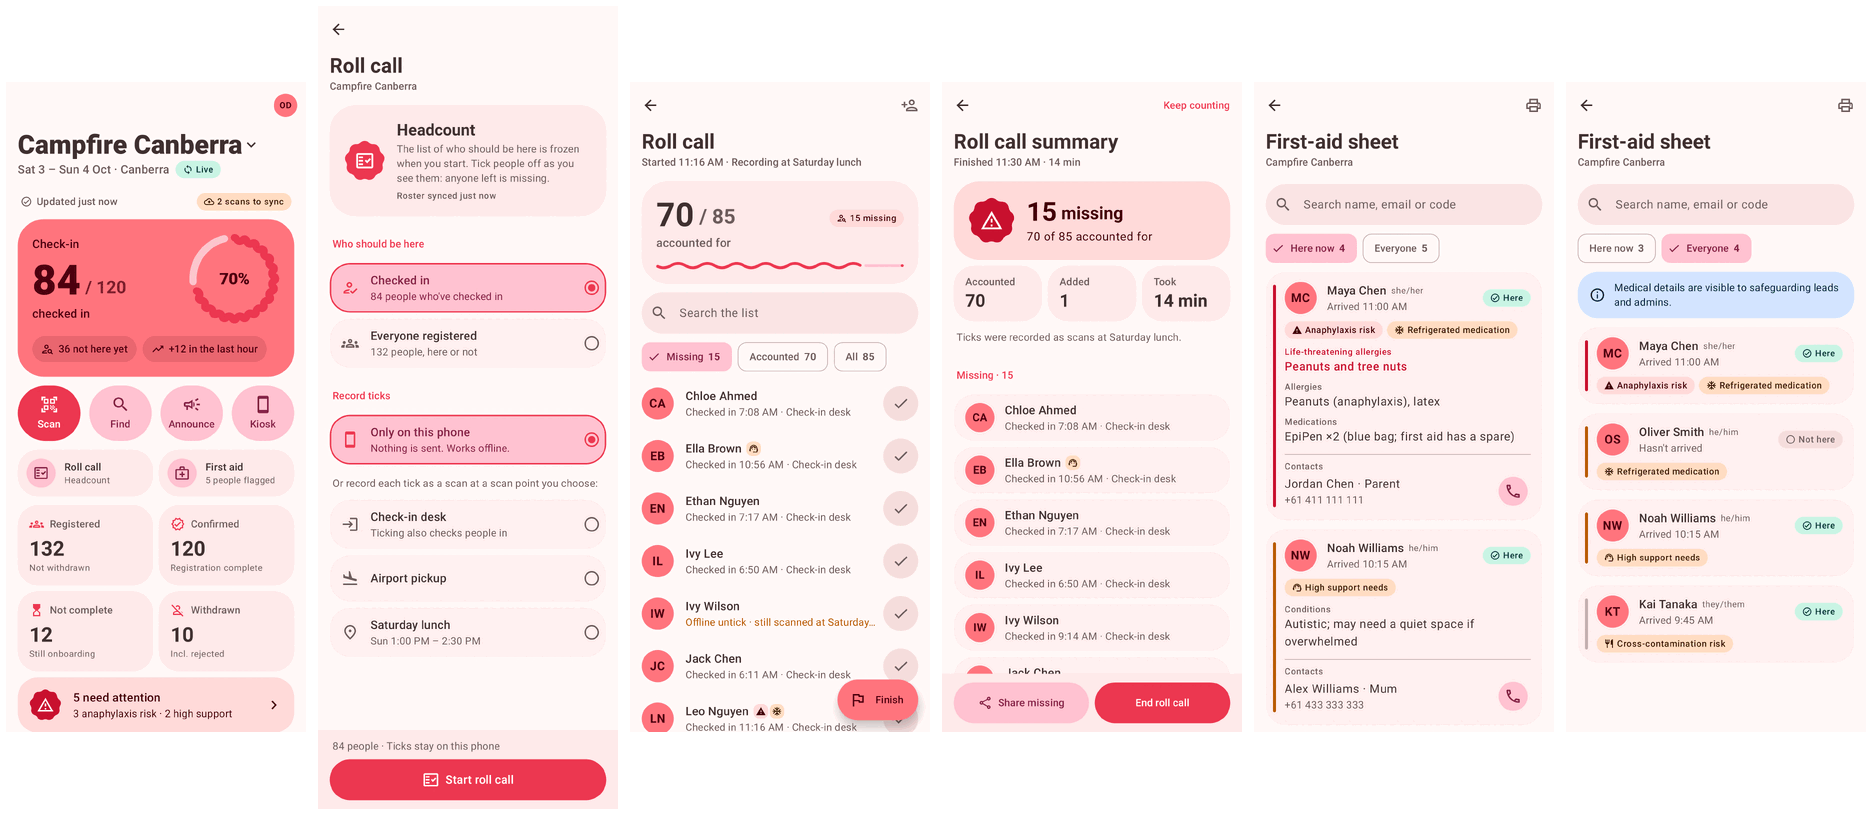
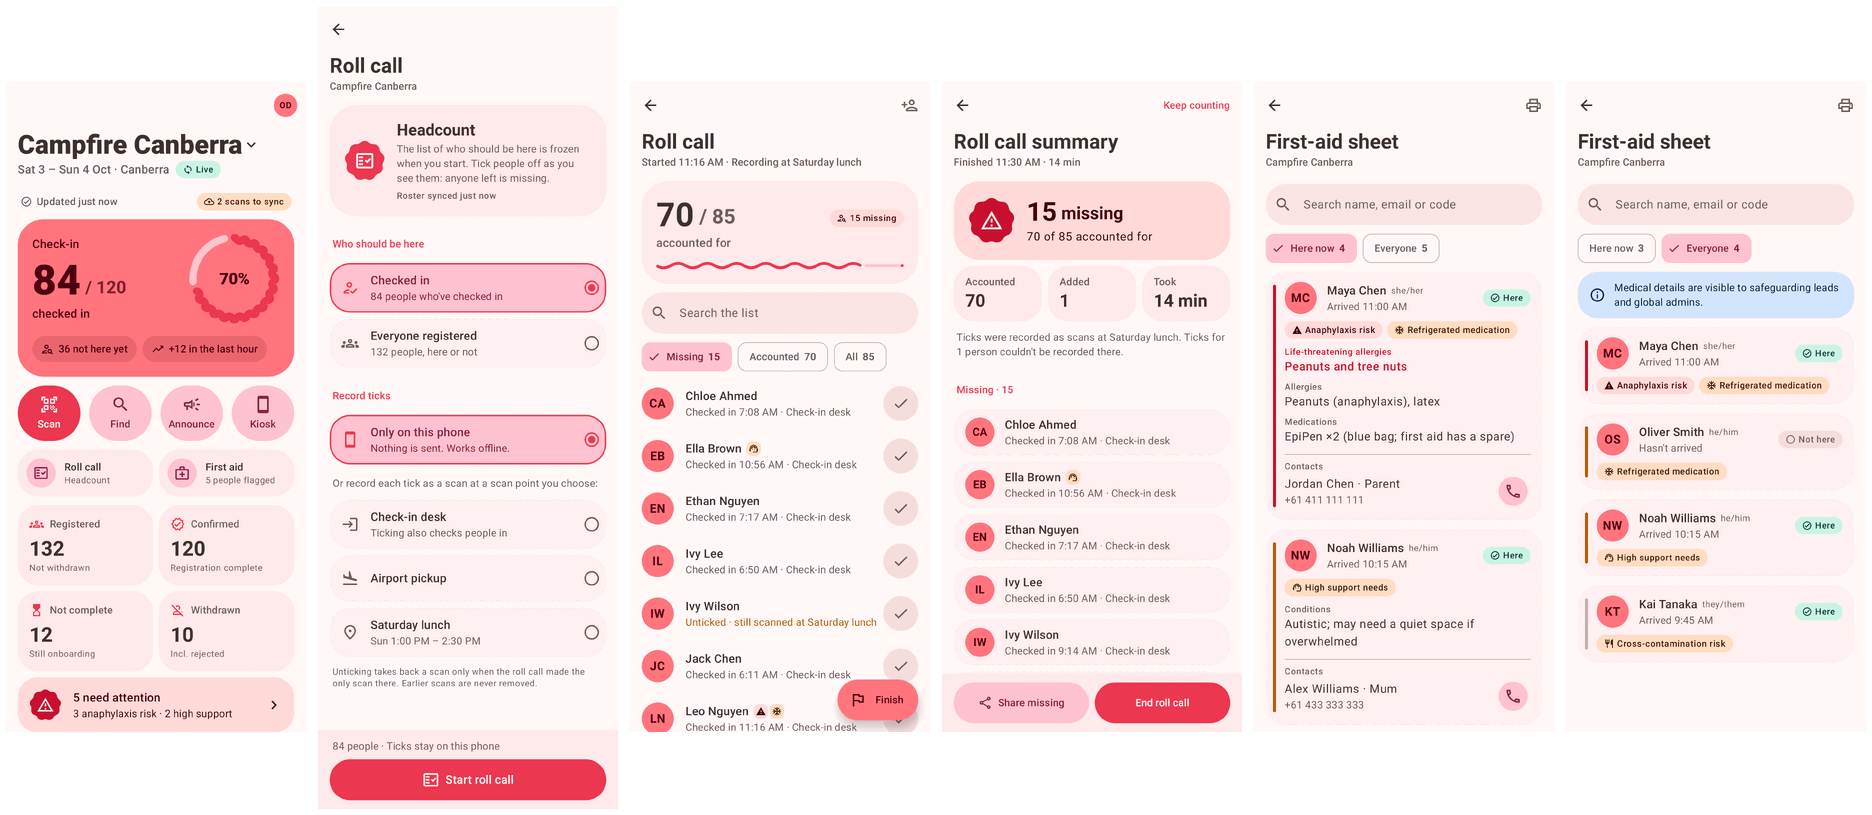
README: medical details go to safeguarding leads and global admins; refresh PR screenshots
Claude-Session: https://claude.ai/code/session_01FUh8DzUSvgRs8SCzJLAo4Q

diff --git a/README.md b/README.md
@@ -90,7 +90,7 @@ They show up as **BetterAttend** and install **alongside** the official app (`au
   here, tick people off, see who's missing, share the list. Optionally record ticks as scans at a
   scan point you pick.
 - **First-aid sheet** — everyone with medical or safety flags, with allergies, medications and
-  emergency contacts for safeguarding leads and admins; works offline and prints or saves as PDF.
+  emergency contacts for safeguarding leads and global admins; works offline and prints or saves as PDF.
 - **Role-aware** — actions only appear for roles Attend allows (e.g. only event admins see
   Invite, Event staff and Remove), so nobody hits a "Forbidden" error.
 
